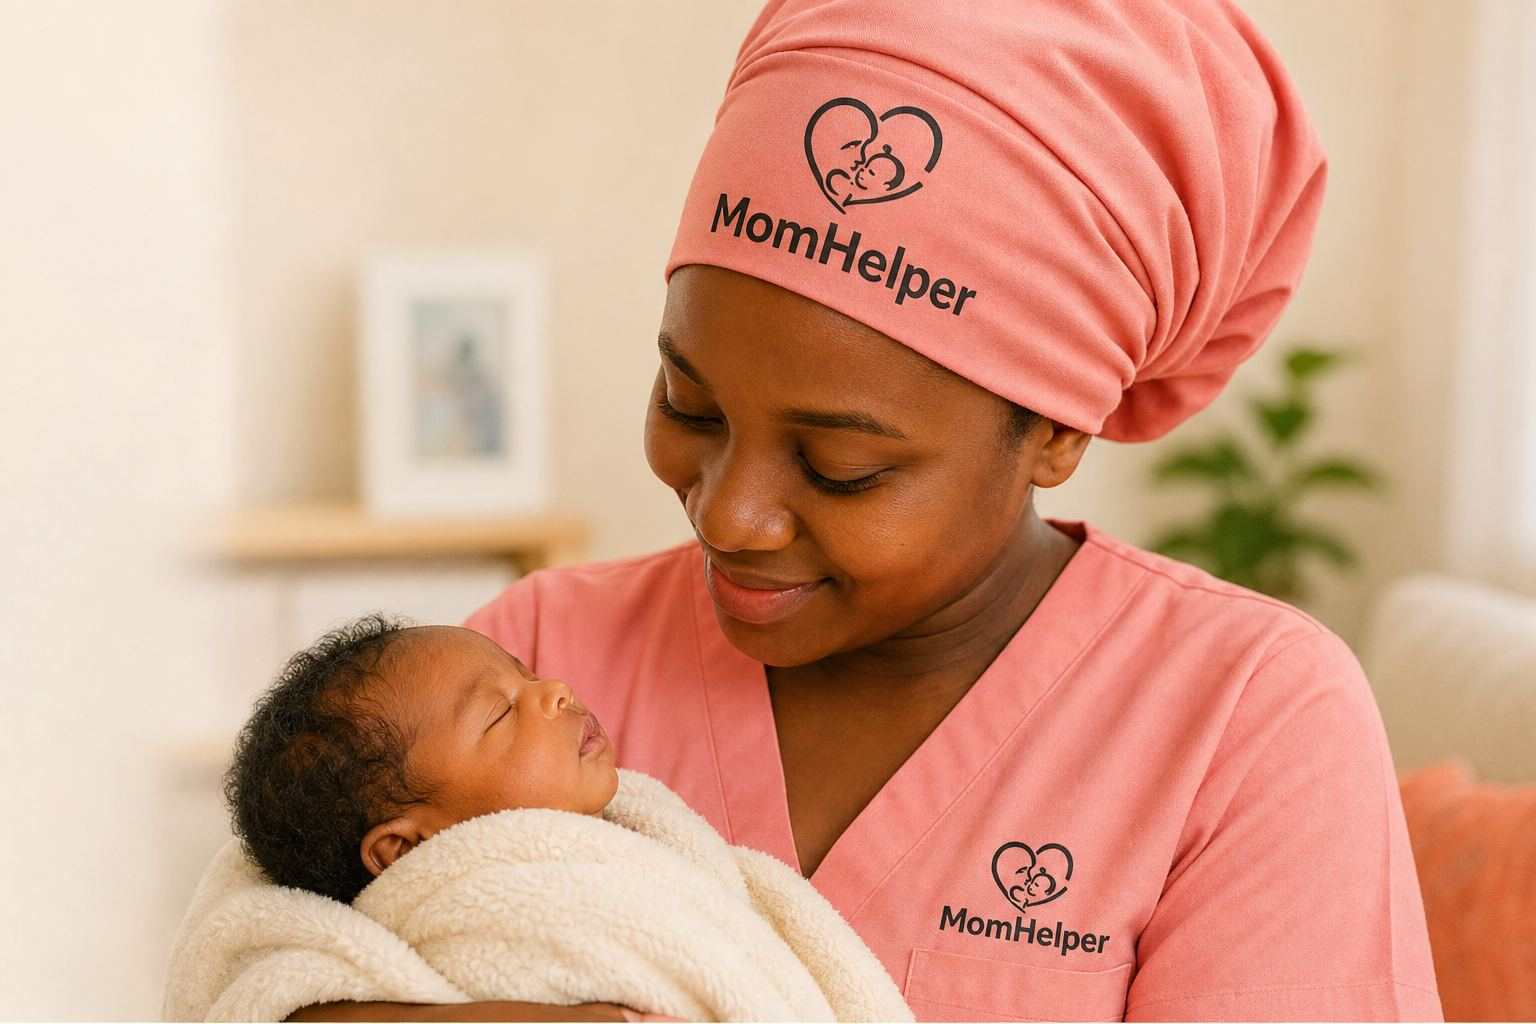
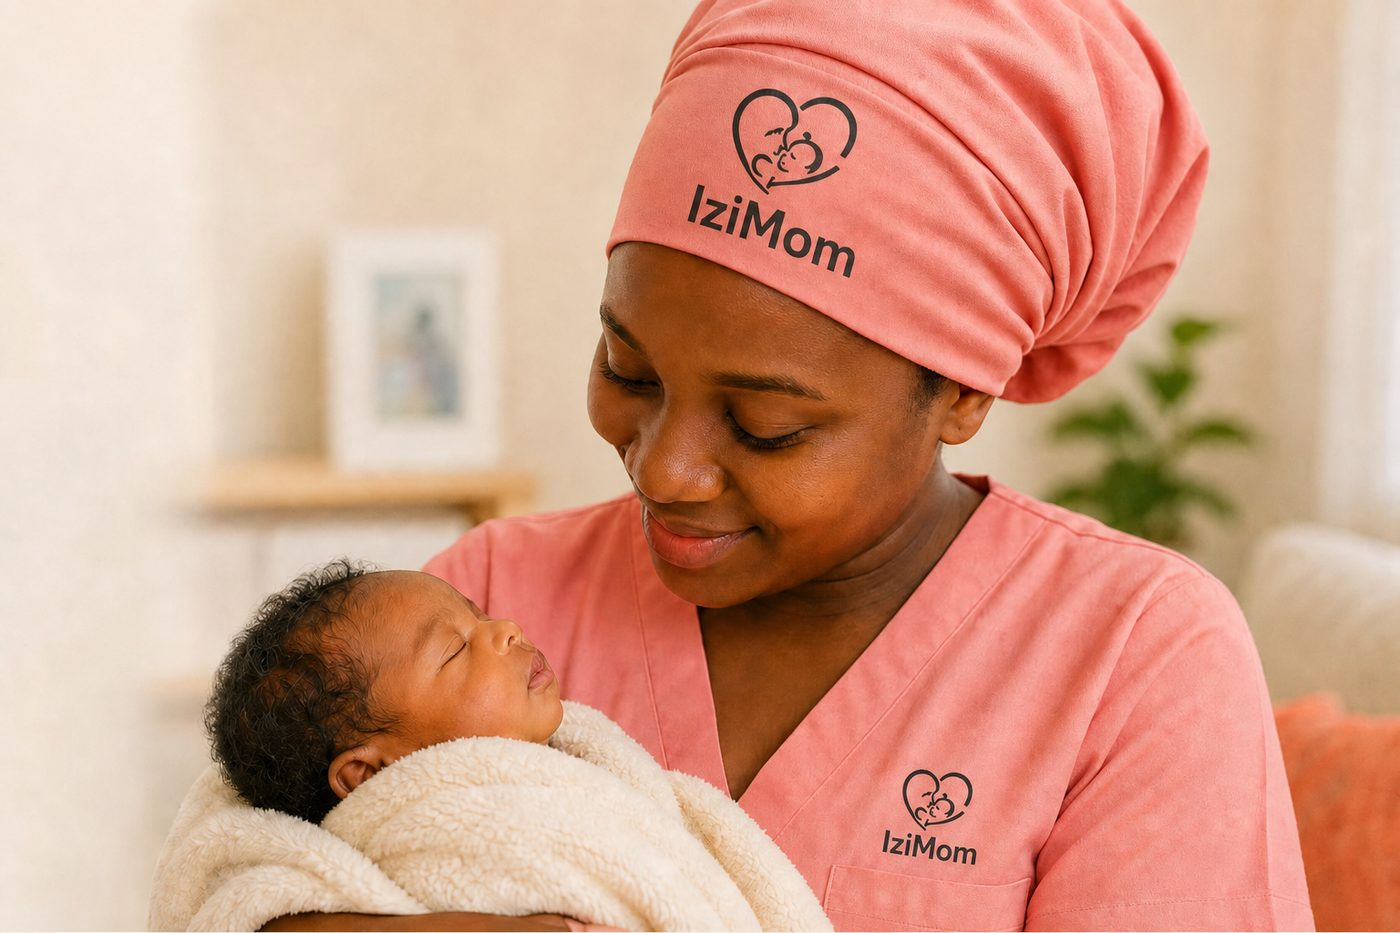
Replace MomHelper branding with IziMom on nurse photos.
Uniforms and head wraps now show IziMom so the live site matches the company name.

diff --git a/index.html b/index.html
@@ -88,7 +88,7 @@
         </div>
 
         <div class="hero-media">
-          <img src="images/hero-nurse.jpg?v=3" alt="IziMom nurse in a pink uniform, holding a sleeping newborn">
+          <img src="images/hero-nurse.jpg?v=4" alt="IziMom nurse in a pink uniform, holding a sleeping newborn">
           <aside class="price-badge">
             <div>
               <strong>From 10,000 RWF per week</strong>
@@ -103,7 +103,7 @@
       <div class="container about-services-grid">
         <article class="panel">
           <span class="eyebrow">ABOUT</span>
-          <img class="about-photo" src="images/about-care.jpg?v=3" alt="IziMom nurse supporting a mother and baby">
+          <img class="about-photo" src="images/about-care.jpg?v=4" alt="IziMom nurse supporting a mother and baby">
           <h2>About IziMom</h2>
           <p>IziMom is a trusted postpartum support service in Rwanda. Our midwives and nurses come to your home so you can rest, recover, and feel confident with your baby.</p>
           <ul class="checks">
@@ -310,7 +310,7 @@
 
         <div class="team-grid">
           <article class="member">
-            <img src="images/team-aline.jpg?v=3" alt="Aline Uwase, Senior Midwife">
+            <img src="images/team-aline.jpg?v=4" alt="Aline Uwase, Senior Midwife">
             <div class="member-body">
               <h3>Aline Uwase</h3>
               <p class="role">Senior Midwife</p>
@@ -318,7 +318,7 @@
             </div>
           </article>
           <article class="member">
-            <img src="images/team-grace.jpg?v=3" alt="Grace Mukamana, Registered Nurse">
+            <img src="images/team-grace.jpg?v=4" alt="Grace Mukamana, Registered Nurse">
             <div class="member-body">
               <h3>Grace Mukamana</h3>
               <p class="role">Registered Nurse</p>
@@ -326,7 +326,7 @@
             </div>
           </article>
           <article class="member">
-            <img src="images/team-immaculee.jpg?v=3" alt="Immaculée Nyirahabimana, Certified Midwife">
+            <img src="images/team-immaculee.jpg?v=4" alt="Immaculée Nyirahabimana, Certified Midwife">
             <div class="member-body">
               <h3>Immaculée Nyirahabimana</h3>
               <p class="role">Certified Midwife</p>
@@ -334,7 +334,7 @@
             </div>
           </article>
           <article class="member">
-            <img src="images/team-diane.jpg?v=3" alt="Diane Ingabire, Pediatric Nurse">
+            <img src="images/team-diane.jpg?v=4" alt="Diane Ingabire, Pediatric Nurse">
             <div class="member-body">
               <h3>Diane Ingabire</h3>
               <p class="role">Pediatric Nurse</p>
@@ -342,7 +342,7 @@
             </div>
           </article>
           <article class="member">
-            <img src="images/team-claudine.jpg?v=3" alt="Claudine Uwimana, Maternal Health Nurse">
+            <img src="images/team-claudine.jpg?v=4" alt="Claudine Uwimana, Maternal Health Nurse">
             <div class="member-body">
               <h3>Claudine Uwimana</h3>
               <p class="role">Maternal Health Nurse</p>
@@ -350,7 +350,7 @@
             </div>
           </article>
           <article class="member">
-            <img src="images/team-esperance.jpg?v=3" alt="Espérance Mukeshimana, Community Midwife">
+            <img src="images/team-esperance.jpg?v=4" alt="Espérance Mukeshimana, Community Midwife">
             <div class="member-body">
               <h3>Espérance Mukeshimana</h3>
               <p class="role">Community Midwife</p>
